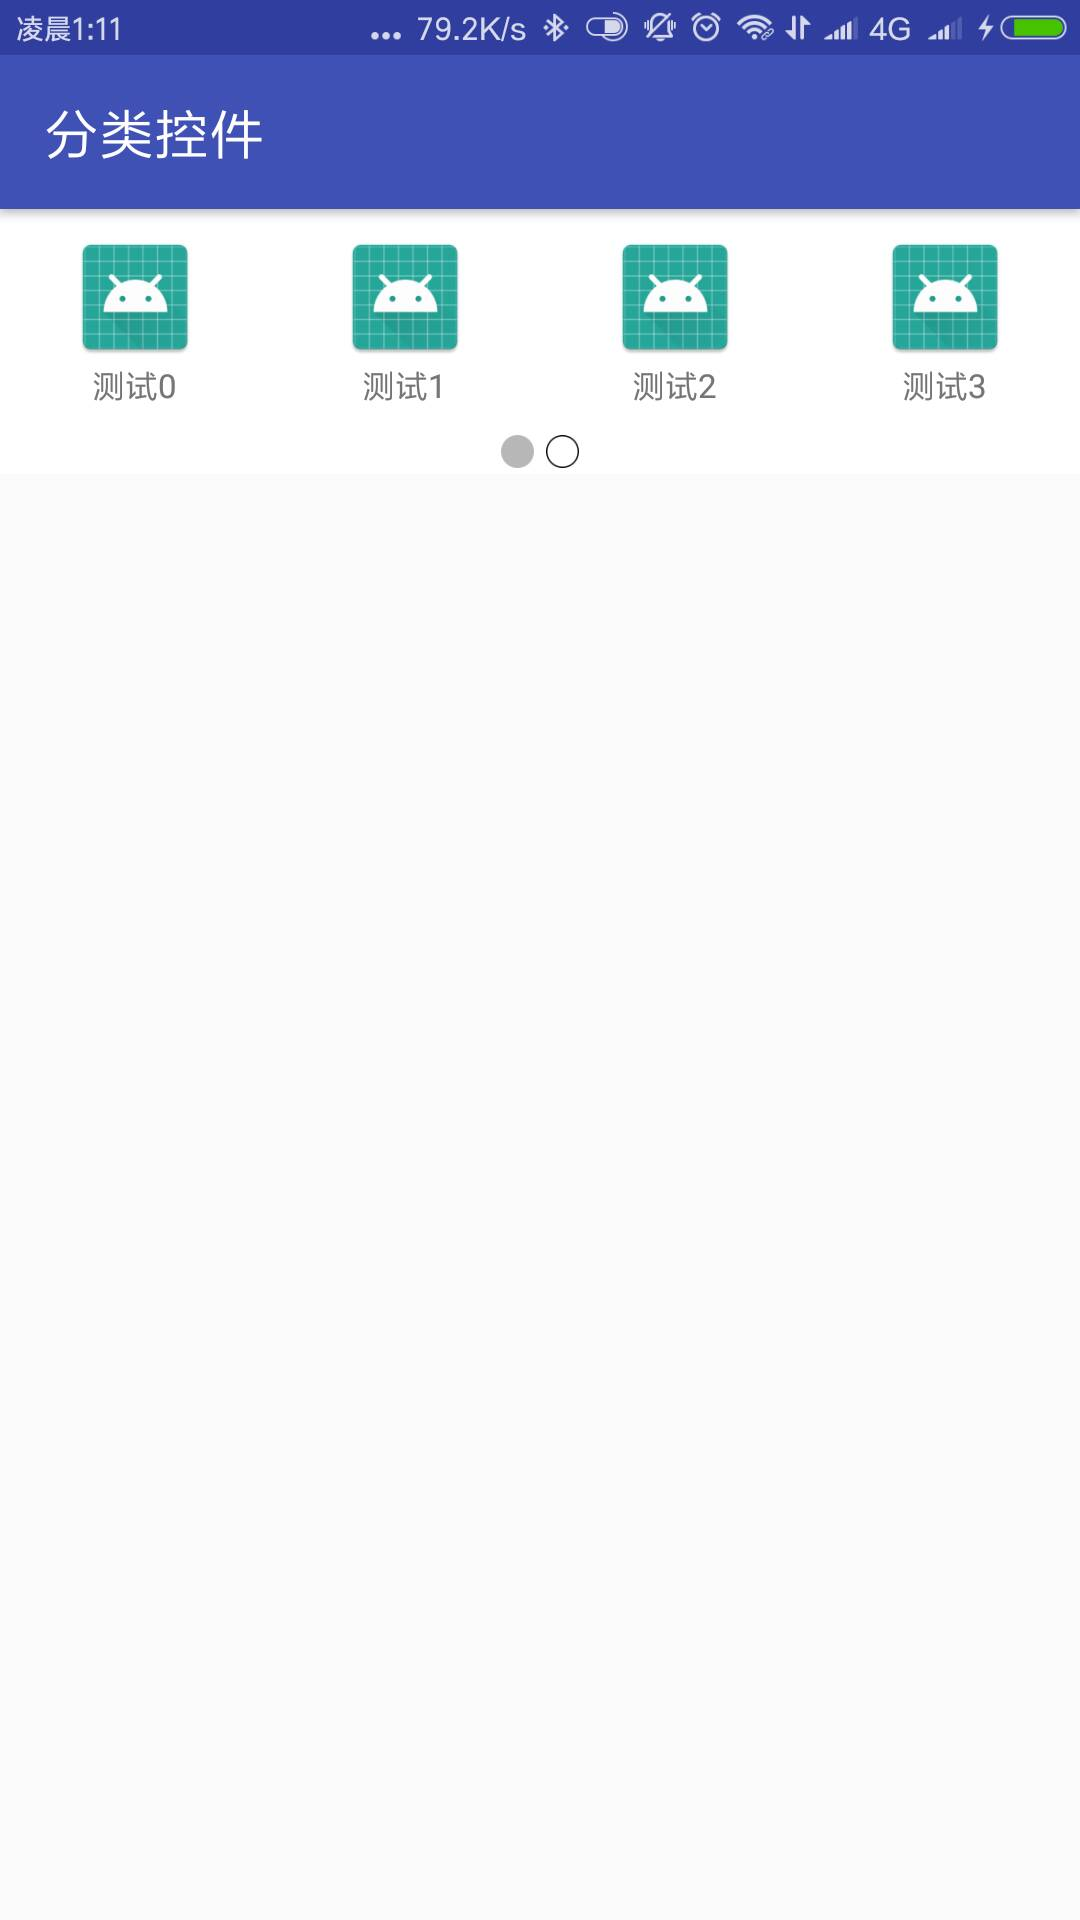
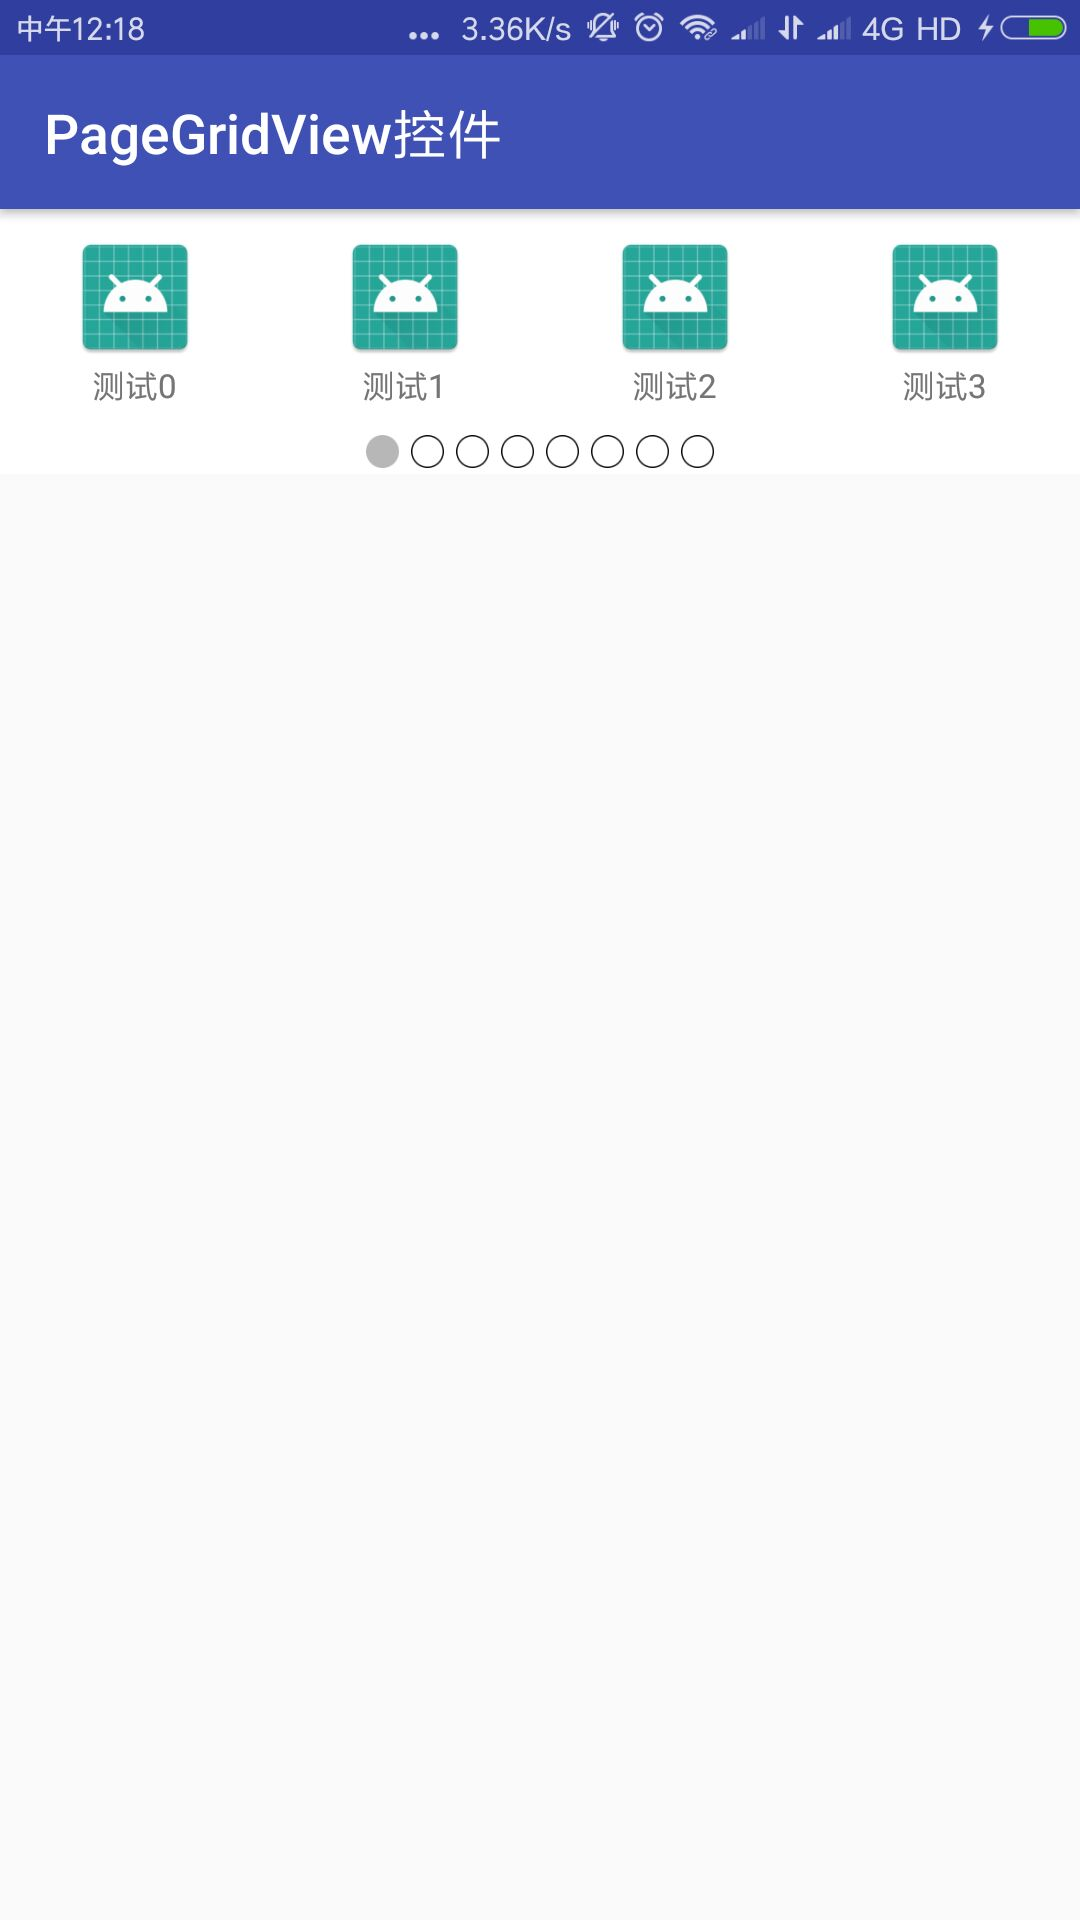
修改MarkDown文档

diff --git a/app/src/main/java/com/example/linguoding/mycustomview/MainActivity.java b/app/src/main/java/com/example/linguoding/mycustomview/MainActivity.java
@@ -33,7 +33,7 @@ public class MainActivity extends AppCompatActivity {
 
     private void initData() {
         mList=new ArrayList<>();
-        for(int i=0;i<5;i++){
+        for(int i=0;i<30;i++){
             mList.add(new MyIconModel("测试"+i,R.mipmap.ic_launcher));
         }
     }

diff --git a/README.md b/README.md
@@ -1,7 +1,7 @@
 # PageGridView
 ViewPager+GridView组合控件实现网格布局分页效果
 
-## PageGridView自定义属性：
+## PageGridView自定义属性
 属性名 | 说明 | 默认值
 :----------- | :----------- | :-----------
 pageSize                | 每页大小               | 8
@@ -10,12 +10,15 @@ isShowIndicator         | 是否显示指示器          | true
 selectedIndicator       | 选中指示点资源ID        | R.mipmap.ic_dot_selected
 unSelectedIndicator     | 未选中指示点资源ID      | R.mipmap.ic_dot_normal
 
-## 效果图
+## 一行四列效果图
 <img src="./img/image1.jpg"  height="800" width="480">
+
+## 两行四列效果图
+<img src="./img/image2.jpg"  height="800" width="480">
 
 
 ## PageGridView使用
-### 布局
+### 一行4列的布局
 
 ```xml
 
@@ -33,6 +36,25 @@ unSelectedIndicator     | 未选中指示点资源ID      | R.mipmap.ic_dot_norm
 
 
 ```
+
+### 两行4列的布局
+```xml
+
+<com.pagegridviewlibrary.PageGridView
+        android:id="@+id/vp_grid_view"
+        android:layout_width="match_parent"
+        android:layout_height="wrap_content"
+        app:numColumns="4"
+        app:pageSize="8"
+        app:selectedIndicator="@mipmap/ic_dot_selected"
+        app:unSelectedIndicator="@mipmap/ic_dot_normal"
+        app:isShowIndicator="true"
+        />
+
+```
+
+
+
 ### Model
 继承VpGridView.ItemModel 为item赋值和设置图标
 
@@ -107,7 +129,7 @@ public class MainActivity extends AppCompatActivity {
 
     private void initData() {
         mList=new ArrayList<>();
-        for(int i=0;i<5;i++){
+        for(int i=0;i<30;i++){
             mList.add(new MyIconModel("测试"+i,R.mipmap.ic_launcher));
         }
     }
